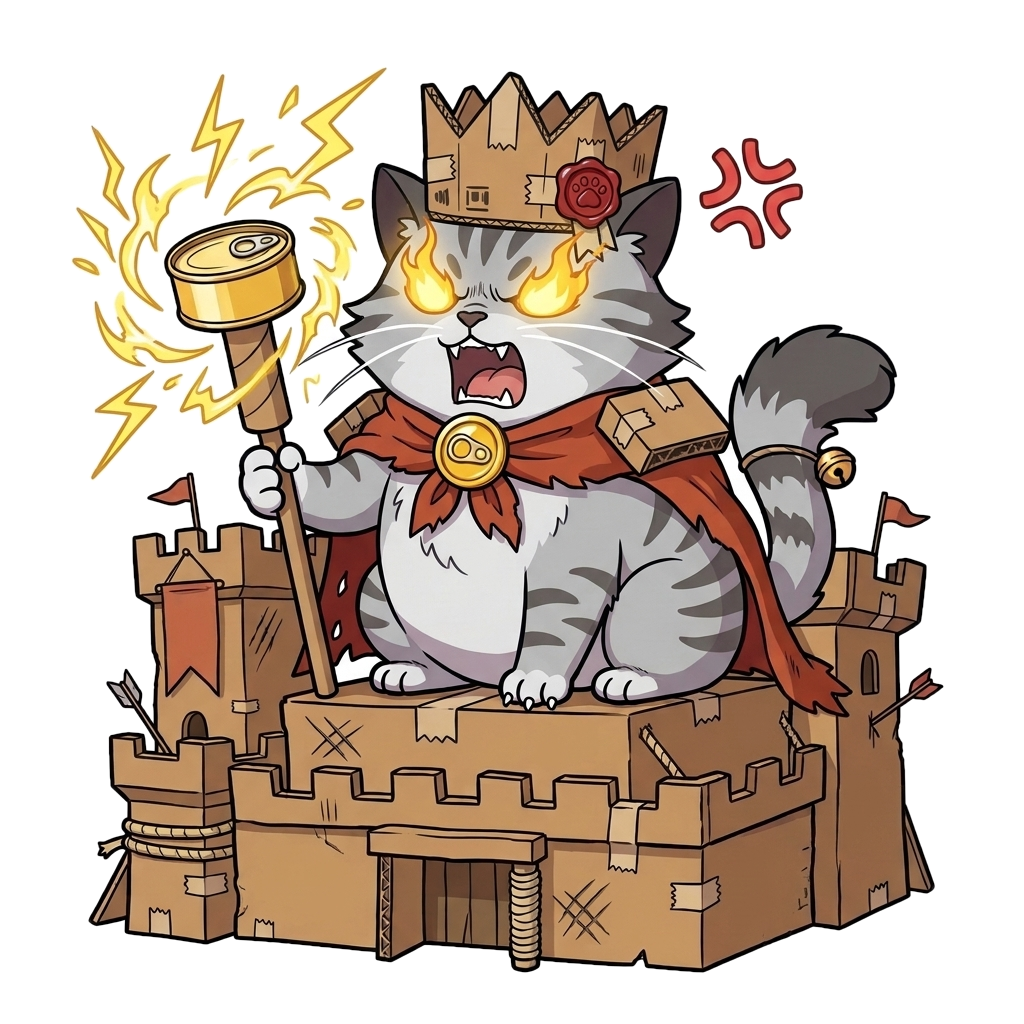
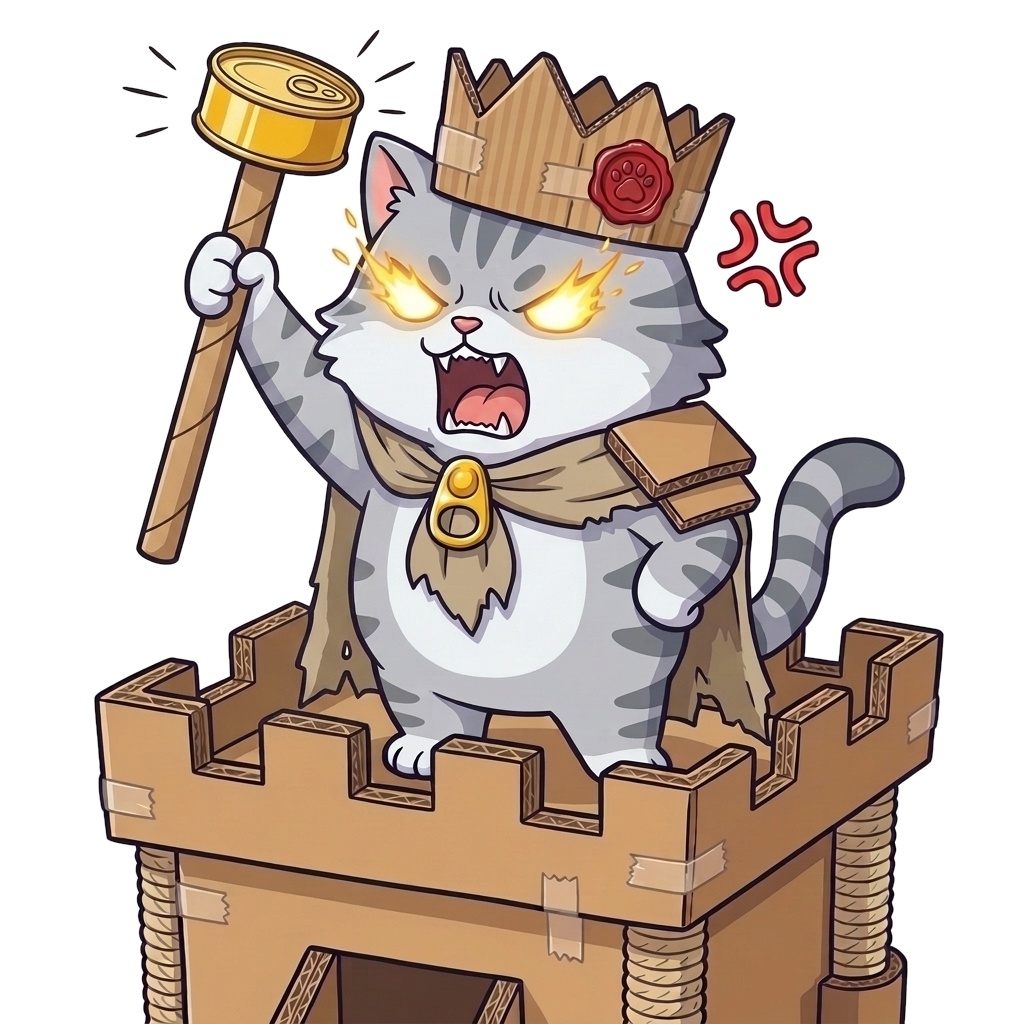
fix(boss): redraw World 3 Hobo King frenzy pose with strictly invariant castle base geometry

diff --git a/GEMINI.md b/GEMINI.md
@@ -16,6 +16,7 @@
   - **Strict Multi-Cut Consistency Anchors**:
     * Absolute spatial anchoring: Always specify facial marks relative to the viewer (e.g. `permanently anchored on viewer's right cheek`, `ear notch strictly on viewer's left ear`) to prevent flipping/hallucination across expressions.
     * Invariant wardrobe: Fasten exact clothing details (e.g., number of studs, vest cut, necklace pendant shape) identically across all action cuts.
+    * Invariant Base Structure & Pedestal Geometry: When a character stands on an environmental structure, fortress rampart, crate, or pedestal, the base structure's geometry, perspective, layers, battlements, and textures MUST remain pixel-for-pixel/silhouette-identical across all action cuts (idle, smug, hurt, frenzy, defeat, victory). Only the character's facial expression, upper body pose, and action FX may change; never redraw or re-layout the pedestal/citadel between emotions.
     * Minimal background clutter: Avoid introducing transient background clutter (random fish crates, changing labels) that morphs unnaturally between sprite frames.
     * Strictly No Baked-in Text (Language-Agnostic): Character illustrations and icons must NEVER contain baked-in text (Korean Hangul, Japanese Kana, or English graffiti/labels) on crates, clothes, or signs. Use clean visual iconography (cat paws, fish bones, stars) so assets remain language-independent and crisp.
 - **Dynamic 3D Tower Geometry & Effects**: Real-time deforming tower blocks (e.g., waffle cones, 5-flavor melting gelato drips, rolling volumetric fog) should use lightweight procedural Canvas 2D rendering for 0 KB overhead and 60 FPS performance.
